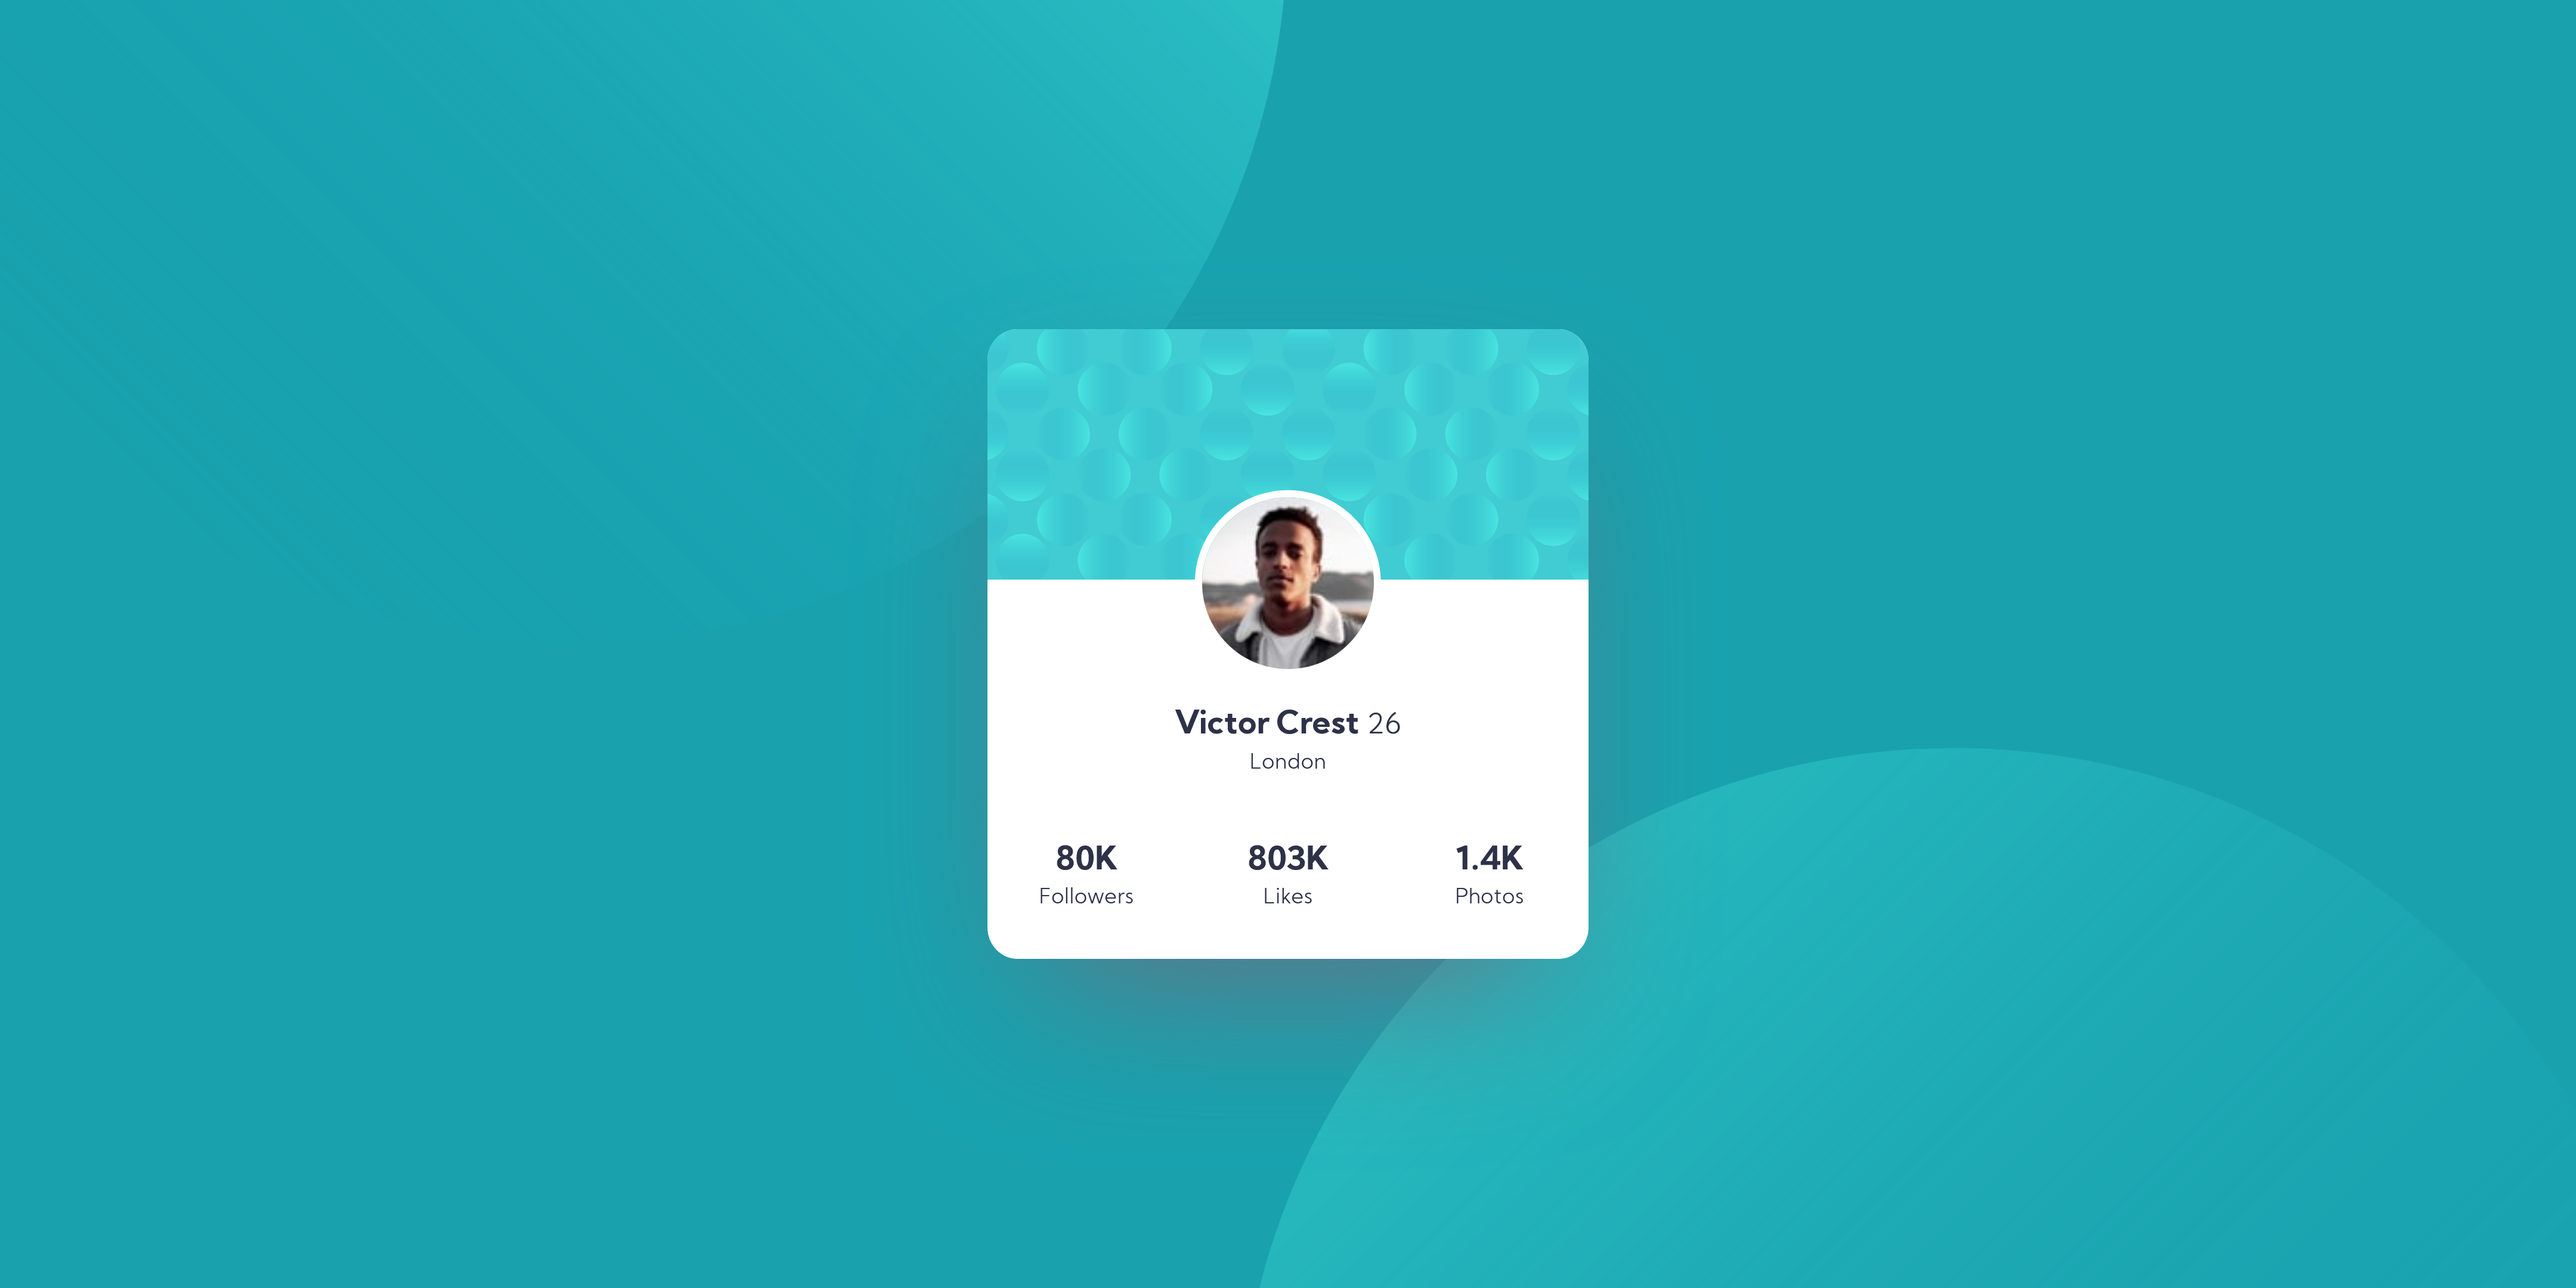
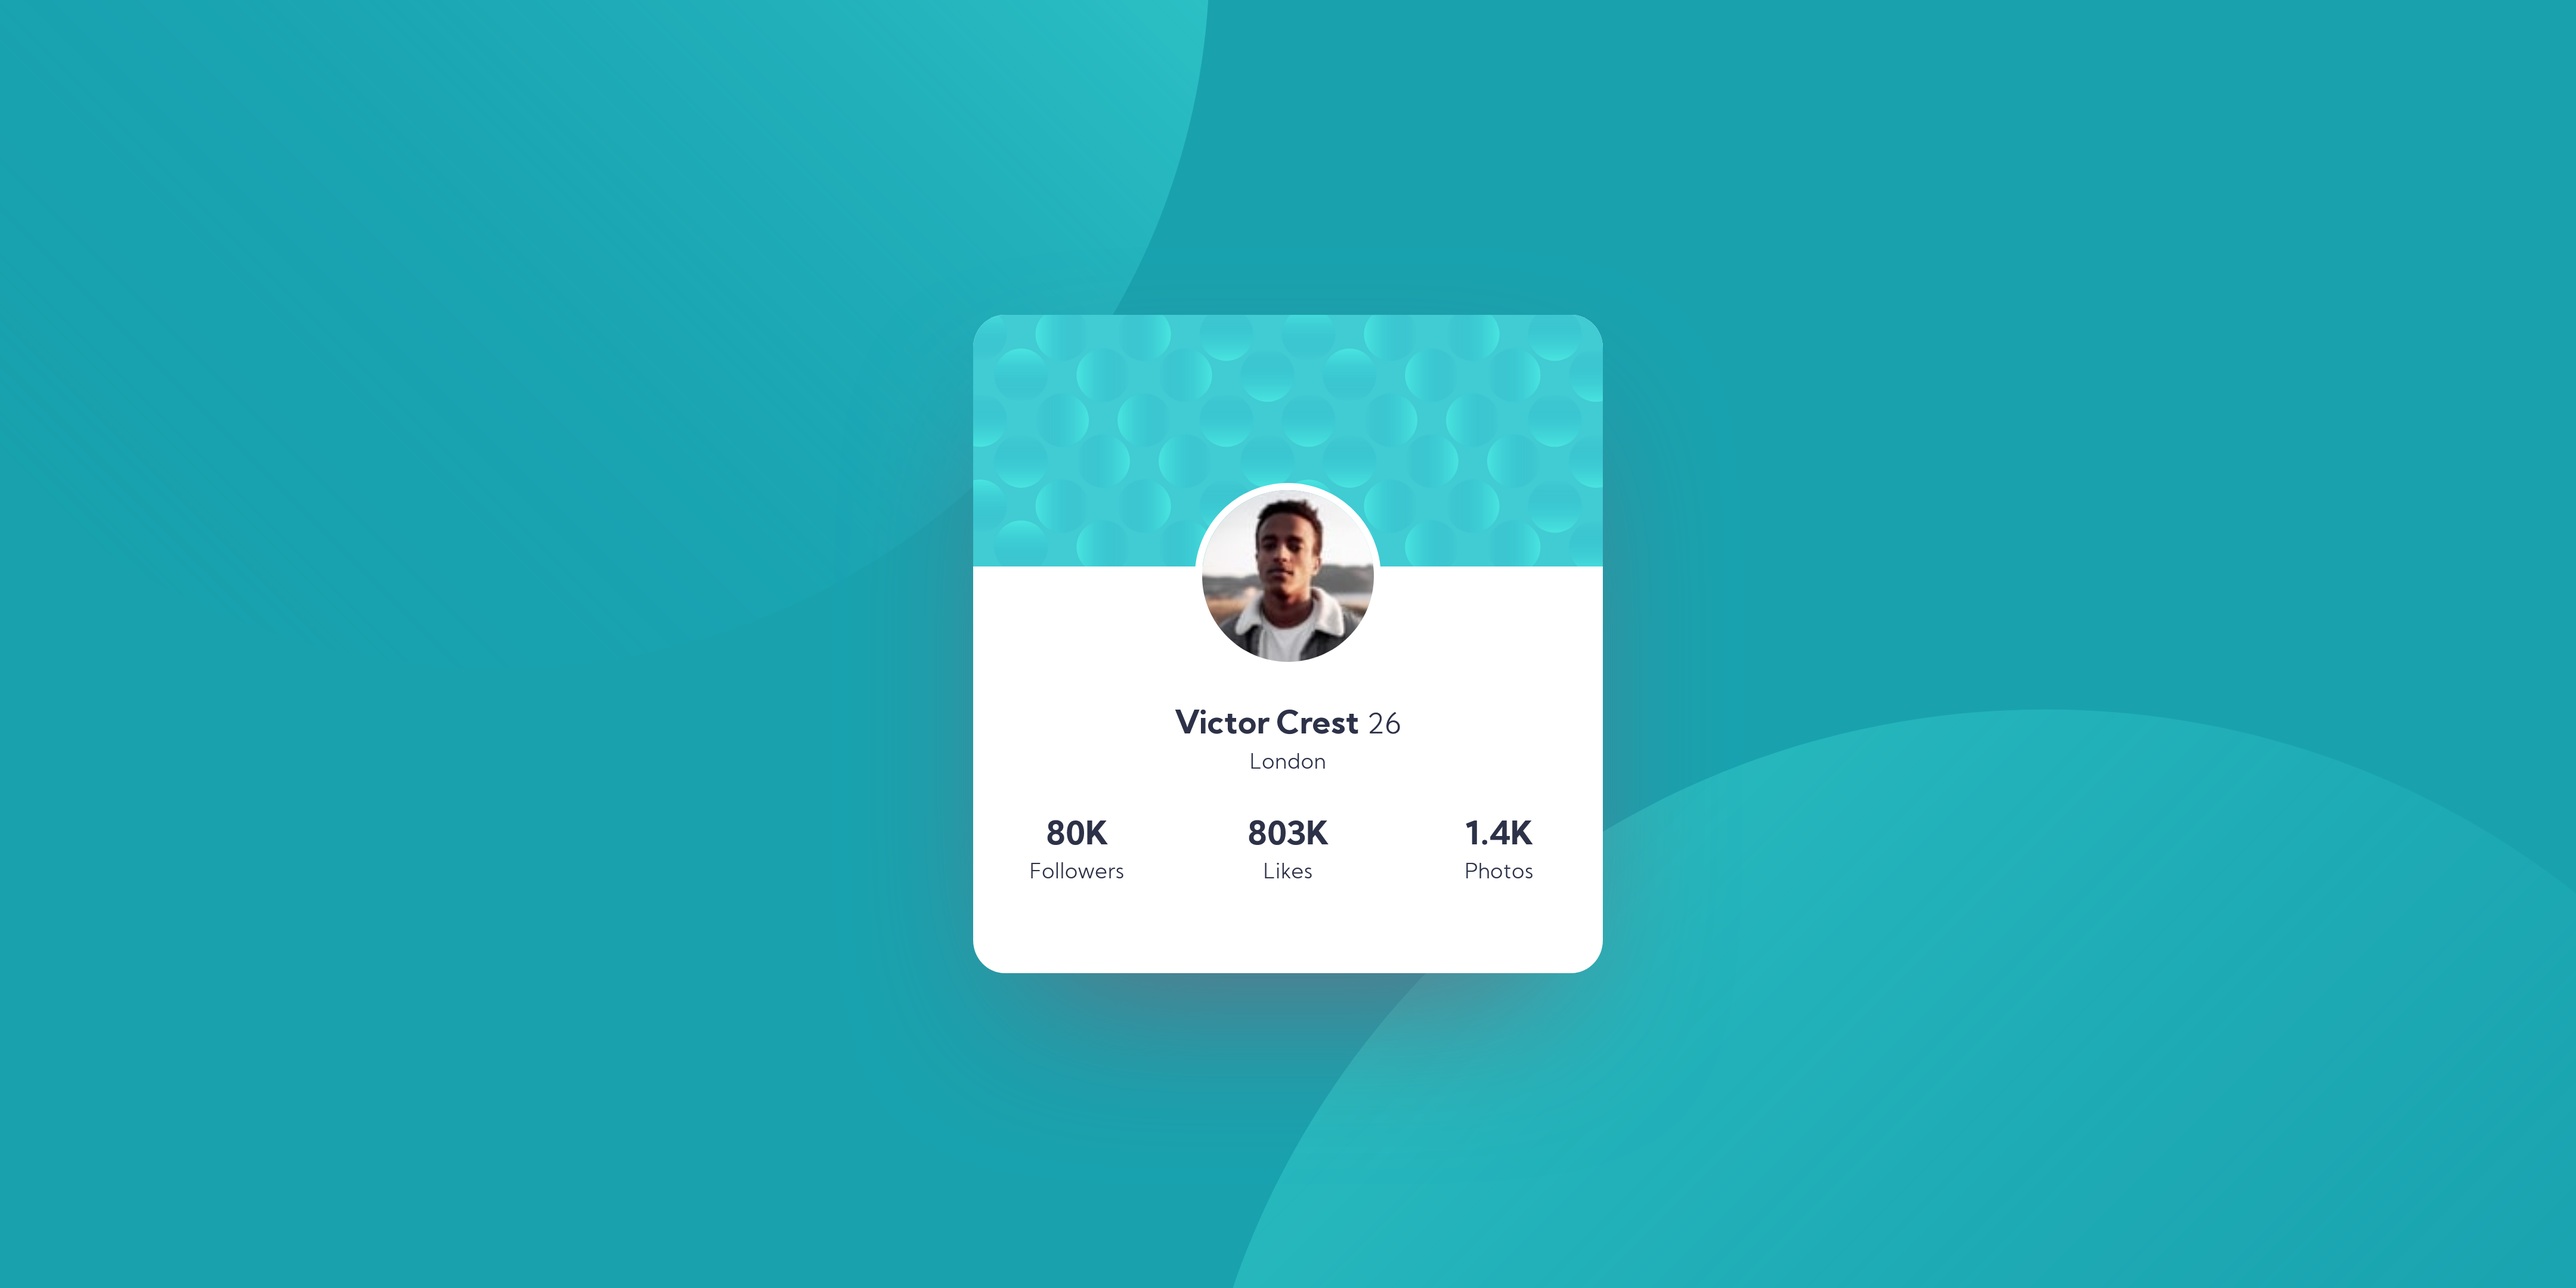
Add files via upload

Changed region(s): [[0.375, 0.2171, 0.625, 0.7755], [0.4688, 0.6204, 0.5312, 0.6824], [0.4688, 0.0, 0.5, 0.062]]

diff --git a/style.css b/style.css
@@ -17,14 +17,15 @@ main {
   display: grid;
   grid-template-columns: repeat(3, 1fr);
   grid-template-rows: repeat(4, 25%);
-  grid-template-areas: '. . .' 'victor victor victor' 'name name name' 'l1 l2 l3';
+  grid-template-areas: '. . .' 'victor victor victor' 'name name name' 'd1 d2 d3';
   background-color: white;
   border-radius: 5%;
   background-image: url(./images/bg-pattern-card.svg);
+  background-size: contain;
   background-position: top;
   background-repeat: no-repeat, no-repeat;
-  width: 21rem;
-  height: 22rem;
+  width: 22rem;
+  height: 23rem;
   text-align: center;
   gap: 2px;
   box-shadow: 0 40px 90px -30px hsl(227, 10%, 46%);
@@ -37,7 +38,7 @@ img {
   border-radius: 50%;
 }
 .p1,
-ul {
+div {
   font-size: 18px;
   text-align: center;
 }
@@ -48,20 +49,20 @@ ul {
   margin: 2rem 0 1rem 0;
 }
 
-.l1,
-.l2,
-.l3 {
+.d1,
+.d2,
+.d3 {
   font-weight: 700;
   padding: 0 20%;
 }
-.l1 {
-  grid-area: l1;
+.d1 {
+  grid-area: d1;
 }
-.l2 {
-  grid-area: l2;
+.d2 {
+  grid-area: d2;
 }
-.l3 {
-  grid-area: l3;
+.d3 {
+  grid-area: d3;
 }
 span {
   font-size: 12px;
@@ -73,7 +74,7 @@ span {
 
 @media (min-width: 500px) {
   body {
-    background-position: right 50vw bottom 50vh, left 48vw top 58vh;
-    background-size: 50rem 50rem;
+    background-position: right 53vw bottom 48vh, left 46vw top 55vh;
+    background-size: 50rem 50rem, 60rem 60rem;
   }
 }

diff --git a/index.html b/index.html
@@ -23,18 +23,18 @@
     <main>
       <img src="./images/image-victor.jpg" alt="" />
       <p class="p1">Victor Crest <span class="age">26</span></br><span>London</span></p>
-      <ul class="l1">
+      <div class="d1">
         80K
         <span>Followers</span>
-      </ul>
-      <ul class="l2">
+      </div>
+      <div class="d2">
         803K
         <span>Likes</span>
-      </ul>
-      <ul class="l3">
+      </div>
+      <div class="d3">
         1.4K
         <span>Photos</span>
-      </ul>
+      </div>
     </main>
     <!-- <div class="attribution">
       Challenge by

diff --git a/README.md b/README.md
@@ -28,7 +28,7 @@ This is a solution to the [Profile card component challenge on Frontend Mentor](
 ### Links
 
 - Solution URL: [Profile card component solution - GitHub](https://your-solution-url.com)
-- Live Site URL: [Profile card component](https://sunil-sharma-999.github.io/Frontend-Mentor-Profile-card-component-solution/)
+- Live Site URL: [Add live site URL here](https://sunil-sharma-999.github.io/Frontend Mentor-Profile-card-component-solution/)
 
 ## My process
 
